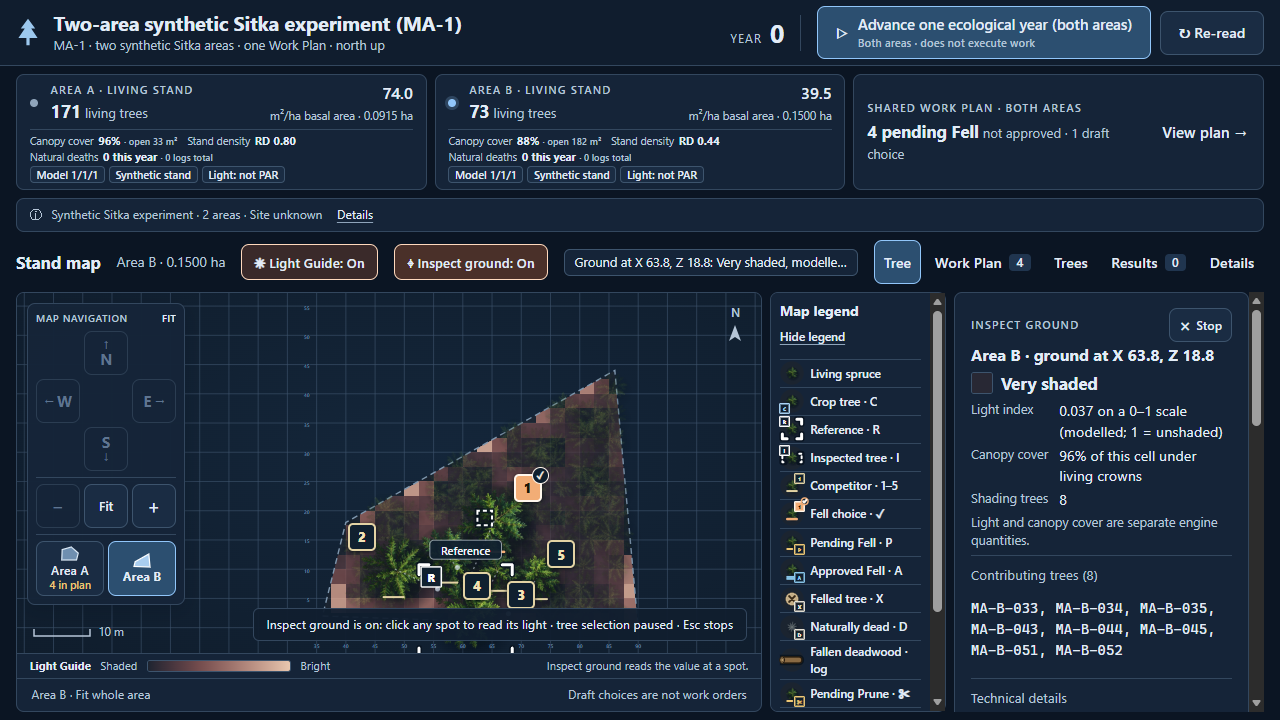
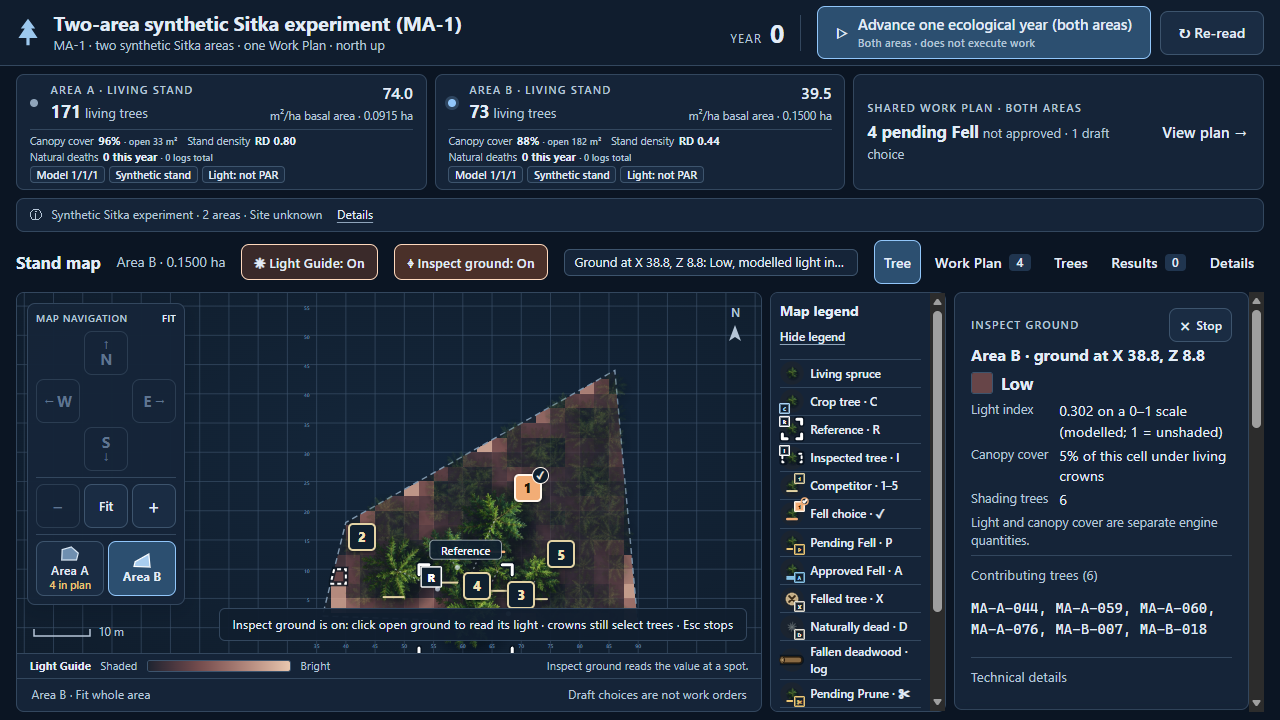
docs(multi-owner-ux): R1 owner decisions, re-run evidence and UX risk
- Phase A implementation result: new "R1" section recording the owner's UX-08
  decision (literal spec order, crowns outrank ground reads) and what the code
  now does, the owner's acceptance of the F-2 Approve lock (no code change),
  the new HEAD, the re-run evidence and the accepted UX RISK that ground
  inspection is limited to open ground (Area A ~4% open by cover; 2 of 144
  cell centres open for the hit-test). UX-08 / F-2 rows, D-1/D-2, the browser
  narrative, screenshots and playtest step no longer describe ground-first.
- scenario-owner-ux.mjs section G rewritten for crown-wins: crown click in
  ground mode selects; open-ground click (hit-test-empty, max clearance) reads
  the cell with no selection/draft/server change; rank toggles only its own
  ID; a modal swallows the click; Escape order. 70 checks per viewport.
- Real headless Edge on fresh servers: 70/70 at 1280x720 and 70/70 at
  1920x1080. Builds 0/0, Core 184/184, smokes 118/6 and 250/4 (same
  pre-existing IDs).
- Screenshots: 07-ground-inspection (both sizes) replaced, 10-ground-mode-
  crown-selects-1280x720 added; set 12 PNGs, 4,827,430 B (AC-9 caps kept).

No capability URL committed.

diff --git a/Docs/Handoffs/MultiRack-Simulation-20261116/900-ui-catchup/MULTI-STAGE4-OWNER-UX-REPAIR-PHASE-A-IMPLEMENTATION-RESULT-20261123.md b/Docs/Handoffs/MultiRack-Simulation-20261116/900-ui-catchup/MULTI-STAGE4-OWNER-UX-REPAIR-PHASE-A-IMPLEMENTATION-RESULT-20261123.md
@@ -7,13 +7,97 @@
 | Role | Sole implementer (Claude Opus 5.5). **No self-review**: the independent reviewer is a different agent and thread |
 | Branch | `feat/multi-stage4-owner-ux-20261123-v1` |
 | Base | `e7c1a57da519ed1ee03ccfbad240196a66df0905` (reviewed Stage 4 UI catch-up candidate; not moved) |
-| Source/test HEAD | `9fed4eb91ed51522e3be2188c9f1539d06106d4d` |
-| Final HEAD | the commit that adds this file, directly on top of `9fed4eb9` (evidence + driver + this handoff; no source change) |
+| Source/test HEAD (Phase A) | `9fed4eb91ed51522e3be2188c9f1539d06106d4d` |
+| Phase A handoff HEAD | `9dd6f601100d55bfca12c1584afb6fc081ba5b7e` (kept in history; not amended) |
+| **Repair R1 source HEAD** | **`1a22d01c`** (`fix(multi-owner-ux): UX-08 crown selection outranks ground inspection`), on top of `9dd6f601` |
+| **Final HEAD** | the commit that adds this R1 update (driver, results, screenshots, handoff), directly on top of `1a22d01c` |
 | Worktree | `C:\Users\hp\.t3\worktrees\CCF-HP\t3-8fc40b07-b22b8bb5869955c0` (Windows checkout of a worktree whose git dir is `/home/jer/Development/CCF-HP/.git/worktrees/t3-8fc40b07-b22b8bb5869955c0`; WSL path `/mnt/c/Users/hp/.t3/worktrees/CCF-HP/t3-8fc40b07-b22b8bb5869955c0`) |
 | Phase B (UX-10) | **Not started.** It was not needed to satisfy Phase A |
 | Integration | None. No merge, no rebase, no force push, `main` untouched |
 
 Unity, Windows builds, save/load and `main` integration were **not** run and are **not** claimed. Everything here is about the standalone browser `/multi` page in `Tools/MultiRackSitkaP1Lab`.
+
+## R1. Bounded repair after the owner's decisions (2026-11-23)
+
+Same writer (Claude Opus 5.5), same branch, new commits only on top of `9dd6f601`; no amend, rebase or force push; the reviewed base `e7c1a57d` did not move. Worktree for R1: `C:\Users\hp\.t3\worktrees\CCF-HP\t3-51cf0f49-fc6c0cea68fda749` (git dir `/home/jer/Development/CCF-HP/.git/worktrees/t3-51cf0f49-fc6c0cea68fda749`).
+
+### R1.1 Owner decision on UX-08 (precedence): the literal spec order, code changed
+
+> modal dialog **>** rank toggle button **>** tree crown selection **>** ground inspection (only when ground mode is active)
+
+The Phase A interpretation D-1 (ground first while Inspect ground is on) was **rejected by the owner** and is removed. What `onMapClick` in `src/Ui/PlayerMultiApi.cs` now does (commit `1a22d01c`):
+
+```js
+async function onMapClick(event) {
+  if (state.batch) { waitForBatch(); return; }
+  if (!state.view || refusedByLock('Map selection') || state.busy) return;
+  ...
+  const outcome = await call('api/multi/hit', { fence: currentFence(), areaId: area.areaId, u: point.x, v: point.y });
+  ...
+  if (candidates.length === 0) {
+    state.overlap = null;
+    applyPayload(outcome.payload, false);
+    // Re-checked after the await: Escape or Stop may have ended Inspect ground while the hit-test was in flight.
+    if (state.lightOn && state.groundMode) { inspectPoint(area.areaId, point.x, point.y); return; }
+    announce('No crown at this point — the selection is unchanged.');
+    return;
+  }
+  if (state.lightOn && state.groundMode) state.ground = null; // a crown hit is a selection, not a ground read
+  ... chooseTree(area.areaId, candidates[0].treeId, false);   // unchanged normal selection
+```
+
+- An open `<dialog>` is modal, so it takes every click; rank buttons are on a sibling HTML layer and never reach the map handler (unchanged).
+- Every other map click, with Inspect ground on or off, goes to the **existing** read-only `api/multi/hit` path behind the existing `state.batch` / `refusedByLock` / `state.busy` guards (no new endpoint, no new hit-test, no double send). A crown there is selected exactly as a normal selection.
+- Only when Inspect ground is on **and** the hit-test reports no crown is the local ground cell read: no further request, no selection change, no draft change (Phase A's ground-read semantics are unchanged).
+- A refused, guarded, locked or failed hit-test shows its usual message and **never** falls through to a ground read.
+- Truthful affordance: the status line reads "Inspect ground is on: click open ground to read its light · crowns still select trees · Esc stops"; the panel hint reads "Click open ground (a spot with no crown over it) inside the area to read its modelled ground light. Clicking a crown still selects that tree."; the announcements say the same; the crosshair cursor is shown only over open ground and crowns keep the pointer. The button keeps its `aria-pressed` and "Inspect ground: On/Off" text and stays keyboard reachable.
+- Not changed: crown geometry, cell values, ranking, the Light Guide mapping, the hit-test tolerance, routes, payloads, any C#.
+
+### R1.2 Owner decision on F-2: Approve lock accepted, no code change
+
+The owner **accepted** that Approve, Execute and the Execute confirmation are all disabled/withdrawn while the read-out is unavailable (Phase A D-2). Behaviour is unchanged and re-verified (smoke F2a–F2h and the browser F-2 checks below).
+
+### R1.3 UX RISK (accepted by the owner)
+
+**Crown-wins precedence leaves ground inspection limited to open ground.** Area A is ~96% canopy cover (the area card: 96%, open 33 m² of 900 m², ≈ 3.7% open area; the owner's figure ~4%). Measured in this run with the server's own hit-test at every light-cell centre (read-only): **Area A 2 of 144 cell centres (1.4%)** have no crown; Area B 22 of 239 (9.2%). In practice, in Area A almost every ground click selects a tree instead, and a ground value under a crown cannot be read by clicking. Two further consequences a reviewer should know: (a) a click a pixel inside a crown edge selects that tree (observed: a point 0.02 m outside MA-B-006's crown radius rounded onto it and selected MA-B-006); (b) because a crown click in ground mode is a normal selection, choosing a different tree clears the previous reference's unsent draft, as it always does outside ground mode (observed and announced: "Cleared 2 unsent draft choices…"). The rule was implemented as directed; I did not substitute another rule. If the owner later wants ground values under crowns, that needs a separate decision (not proposed here).
+
+### R1.4 Re-run evidence (observed by me in the R1 worktree; nothing reused from the Phase A browser run)
+
+| Check | Result |
+|---|---|
+| `dotnet build MultiRackSitkaP1Lab.sln` (8.0.134, `/home/jer/.dotnet/dotnet`) | **0 warnings, 0 errors** |
+| `dotnet build src/Ui/SitkaP1.Ui.csproj` | **0 warnings, 0 errors** |
+| Core suite | **184/184**, 0 failed (anchor / P0 trust / source-identity checks all PASS) |
[1 lines of base64/hex data omitted]
+| `ui-smoke-multiarea.sh` | **118 pass / 6 fail**: J04, J05, J09, J10, J11, J99, identical to the baseline; F2a–F2h all PASS. **All 6 pre-existing**: J99 is the same witness crash `byId('reason-choice').value = 'other'` (TypeError on null), the others the same #885-era selectors |
+| `ui-smoke.sh` | **250 pass / 4 fail**: L01, L02, L06, J31, identical to the baseline. **All 4 pre-existing** (J31 = the same `getBoundingClientRect is not a function` witness crash) |
+| Real headless Edge, 1280×720, fresh server | **70/70 PASS** (+ 2 INFO lines) |
+| Real headless Edge, 1920×1080, fresh server | **70/70 PASS** (+ 2 INFO lines) |
+| CSP violations / exceptions / console errors / HTTP 5xx | 0 / 0 / 0 / 0 at both viewports |
+| No sideways scroll | 1280 = 1280, 1920 = 1920 (start and end) |
+| Protected listeners 127.0.0.1:33767, :43649, :46593 | alive before, during and after; never bound (each lane server took an OS-assigned port) |
+
+Ground-mode precedence checks, both viewports (same numbers at both):
+
+| Check | Observed |
+|---|---|
+| Inspect ground ON, click a crown | MA-B-044 (the hit-test's topmost there) **selected**; ground panel "Area B · choose a spot", no ground mark, Technical details hidden, mode still On; server view unchanged |
+| Inspect ground ON, click open ground (hit-test: no crown; u 3.6, v 46.4, 1.84 m from the nearest crown edge) | ground inspector "Area B · ground at X 38.8, Z 8.8", mark drawn; reference stays MA-B-001, Add label stays "Add selected 1 to Fell plan", rows and rank states identical, server view identical |
+| Inspect ground ON, rank button | only MA-B-010 changed (`changed: ["MA-B-010"]`); reference and ground reading unchanged |
+| Inspect ground ON, modal open (Year+1 consent), click the map | dialog stays open, no request sent (`posts: []`), ground reading and selection unchanged; Escape then closes only the dialog and Inspect ground stays On |
+| Escape order | first Escape stops Inspect ground (Light Guide stays On, 239 cells, inspection of MA-B-044 stays open); after leaving, a crown click selects MA-B-002; the next Escape closes the inspection |
+| Hint / cursor | status and panel text as in R1.1; `#map` cursor `crosshair`, crown cursor `pointer`; no "paused" wording |
+| Outside the area | "no sample", nothing estimated (unchanged) |
+
+UX-06 light ramp spot checks, both viewports, unchanged from Phase A: L = 0 / 0.01 / 0.05 / 0.5 / 1 → opacity **0 / 0.0451 / 0.1284 / 0.5736 / 0.9**, colours `#7f3b4a` / `#88414e` / `#994d54` / `#e49383` / `#ffd9bd`; pixels over the floor colour: summed RGB change **0 / 8 / 26 / 227 / 496**. Every cell with L > 0 is drawn with opacity > 0; monotonic over the real cells.
+
+**Driver changes** (`browser-driver-owner-ux/scenario-owner-ux.mjs`, section G rewritten for crown-wins; 70 checks per viewport, was 63; INFO lines are not counted). Honest run history: the first 1280×720 attempt had 4 FAIL + abort because the driver picked an "open" cell centre 0.02 m outside a crown edge and the integer-pixel click landed on the crown (the page correctly selected it); the driver now picks the hit-test-empty cell centre with the most clearance. A 1920×1080 attempt then had 1 FAIL because the "click a crown after leaving ground mode" step clicked a crown centre covered by something other than that crown; the step now picks a crown point that is on `#crowns`, not under a rank button, with a known hit-test topmost. Both viewports were then re-run on fresh servers: 70/70 each. Those are the committed results.
+
+**Screenshots changed by R1:** `07-ground-inspection-1280x720.png` and `07-ground-inspection-1920x1080.png` (new hint text; the read is now of open ground) replaced; `10-ground-mode-crown-selects-1280x720.png` added. Set: 12 PNGs, **4,827,430 B**, largest 762,902 B (AC-9: ≤ 0.9 MB each, ≤ 5 MB set). The other 1280×720 shots were retaken and are unchanged in visible behaviour, so the Phase A files stay (02 differs by 90 bytes, same state). All 20 R1 PNGs, both raw run logs, the Core and smoke logs are off-repo at `/home/jer/.local/share/ccf-evidence/multi-stage4-owner-ux-repair-20261123/` (`SHA256SUMS`, capability-redacted). No capability URL in any committed file (checked: zero `/s/<64 hex>/` matches).
+
+**R1 environment notes.** Fresh T3 worktree; `git checkout --ignore-other-worktrees -B feat/multi-stage4-owner-ux-20261123-v1 9dd6f601` because the branch was still checked out (clean, idle) in the Phase A worktree `t3-8fc40b07`, which I did not touch; that worktree's checkout is now behind its branch ref and will show R1 as reverse changes if used. As in Phase A (L-4), Windows Git has `core.autocrlf=true`; I re-materialised `Tools/MultiRackSitkaP1Lab`, `900-ui-catchup` and the 3,350 CRLF text files under `Assets/ForestPrototype` with `core.autocrlf=false` (byte-identical to the commit; `git status` clean before editing). The Core tests' own `git` calls need `GIT_DIR`/`GIT_WORK_TREE` set in WSL. `TMPDIR` was `/tmp/opus-ownerux-repair/tmp`.
+
+**Not verified in R1:** owner playtest; independent review; Unity, Windows builds, save/load; `p0-isolation.sh`, `build-output-safety.sh`, `cli-safety.sh`; screen-reader output (announcement text was read from the DOM, not heard); any `main` integration.
 
 ## 1. Commits
 
@@ -22,7 +106,9 @@ Unity, Windows builds, save/load and `main` integration were **not** run and are
 | `267be9ff` | `feat(multi-owner-ux)`: UX-01..UX-09 and F-2 in `MultiAreaPage` (`PlayerMultiApi.cs`) |
 | `0e17f641` | `test(ui-smoke-multiarea)`: F-2 unpaired read-out checks F2a..F2h in the existing page witness |
 | `9fed4eb9` | `fix(multi-owner-ux)`: keep "Add selected N to Fell plan" on one line (found by the browser fold re-check) |
-| *(this commit)* | Browser driver for this task, results, screenshots, this handoff |
+| `9dd6f601` | Browser driver for this task, results, screenshots, this handoff |
+| `1a22d01c` | R1 `fix(multi-owner-ux)`: UX-08 crown selection outranks ground inspection (owner decision) |
+| *(R1 docs commit)* | R1 driver section G, re-run results, changed screenshots, this update |
 
 ## 2. Changed files and why
 
@@ -31,9 +117,9 @@ Unity, Windows builds, save/load and `main` integration were **not** run and are
 | `Tools/MultiRackSitkaP1Lab/src/Ui/PlayerMultiApi.cs` | The whole change, inside the `MultiAreaPage` raw strings (HTML, CSS, JS). No route, payload, fence or C# logic changed (the C# above `MultiAreaPage` is byte-identical) |
 | `Tools/MultiRackSitkaP1Lab/tests/ui-smoke-multiarea.sh` | Adds an `unpaired` fault mode (the server's real answer with `stage4` set to null) and eight F-2 checks. Existing checks untouched |
 | `Docs/Handoffs/.../900-ui-catchup/browser-driver-owner-ux/cdp-ux.mjs` | New. The committed `../browser-driver/cdp.mjs` pattern plus real key events, clipped screenshots and a tiny PNG decoder for pixel checks. The old driver is not modified |
-| `Docs/Handoffs/.../900-ui-catchup/browser-driver-owner-ux/scenario-owner-ux.mjs` | New. 63 real-browser checks per viewport |
+| `Docs/Handoffs/.../900-ui-catchup/browser-driver-owner-ux/scenario-owner-ux.mjs` | New. 63 real-browser checks per viewport at Phase A; 70 after the R1 section G rewrite |
 | `Docs/Handoffs/.../900-ui-catchup/browser-driver-owner-ux/browser-results-{1280x720,1920x1080}.json`, `browser-run-*.txt` | Raw results of the final runs (capability redacted, checked: zero 64-hex tokens) |
-| `Docs/Handoffs/.../900-ui-catchup/evidence-owner-ux/*.png` | 11 screenshots (§7) |
+| `Docs/Handoffs/.../900-ui-catchup/evidence-owner-ux/*.png` | 12 screenshots after R1 (§7; 11 at Phase A) |
 | this file | Handoff |
 
 Not touched (verified with `git diff e7c1a57d HEAD`, empty): `src/Ui/PlayerApi.cs`, `src/Ui/Program.cs`, `src/Core/**`, `fixtures/**`, the `.sln`, `.p0ref`, Unity `Assets/**`, packages, saves, the approved quartet, every historical handoff and the previous `browser-driver/`.
@@ -49,9 +135,9 @@ Not touched (verified with `git diff e7c1a57d HEAD`, empty): `src/Ui/PlayerApi.c
 | **UX-05** | DONE | Dock 158 px wide (was 212). Compass 3×3 (N top-centre, W/E middle, S bottom-centre, empty centre), then one `− · Fit · +` row, then `Area A · Area B` on one row. 44 px targets kept; north-up, pan/zoom limits, Fit and area-switch handlers unchanged |
 | **UX-06** | DONE | Light cells moved **under the crowns** (`#light-cells` now precedes `#crowns`, clipped to the area, no pointer events, no text). Per cell: `t = L^0.65`, opacity `= 0.9·t` (floor `0.0001` for any `L > 0`, written with 4 decimals, so it can never print as 0), colour linear through `#7F3B4A → #DA796D → #FFD9BD` by `t`. `L = 0`: no element. Old numbered band markers, `lc-1..5` fills and their halos (F-3) are gone. OFF by default |
 | **UX-07** | DONE | Ground panel: level word (Very shaded / Low / Moderate / Bright; `L = 0` adds "no modelled light"), "Light index 0.037 on a 0–1 scale (modelled; 1 = unshaded)", "Canopy cover 96% of this cell under living crowns" (the engine's separate `geometricCoveredFraction`), "Shading trees 8". Closed disclosures: **Contributing trees (n)** with the IDs; **Technical details** with the index (4 dp), the cover fraction, column/row, grid size and clipped m², centre X/Z, cross-border trees, light model label + version, "Calibrated PAR no", the guide label and the not-calibrated caveat |
-| **UX-08** | DONE, *with an interpretation to review* (§6 D-1) | With the Light Guide on and Inspect ground off, a crown click selects the tree exactly as before (server hit-test). **Inspect ground** is an explicit `aria-pressed` toggle shown only with the Light Guide on; while on, a map click finds the engine cell containing the point and shows it (crosshair cursor, status line, outline on the chosen cell). Rank buttons and dialogs still take precedence. A point with no cell says "No modelled ground sample… No value is shown or estimated". Leaving (button, **× Stop**, Escape) restores tree selection and leaves the Light Guide as it was |
+| **UX-08** | DONE, **owner-decided precedence (R1, `1a22d01c`)** | Precedence is the literal spec order: modal dialog > rank toggle button > tree crown selection > ground inspection (only while Inspect ground is on). With the Light Guide on or off and Inspect ground on or off, a map click goes to the server hit-test and a crown there is selected exactly as before. **Inspect ground** is an explicit `aria-pressed` toggle shown only with the Light Guide on; while on, a click where the hit-test reports **no crown** finds the engine cell containing the point and shows it (status line, outline on the chosen cell; crosshair over open ground, pointer over crowns). A refused/locked/failed hit-test never falls through to a ground read. A point with no cell says "No modelled ground sample… No value is shown or estimated". Leaving (button, **× Stop**, Escape) stops ground reads and leaves the Light Guide as it was. UX risk accepted by the owner: ground reads are limited to open ground (R1.3) |
 | **UX-09** | DONE | The map legend strip says "Light Guide · Shaded [ramp] Bright · Inspect ground reads the value at a spot." The ramp is an SVG gradient sampled from the same mapping. No band labels, no "modelled light – not measured sunlight", no calibration text on the map. Source/version/uncertainty remain in the ground panel's Technical details and the Details pane (unchanged). The level is always given as text + number in the inspector |
-| **F-2** | DONE | `readoutState()` = `stage4` / `legacy` / `unavailable` (`stage4: null`). Unavailable shows neither the model 0 statements (edge exclusion, "Light … NOT MODELLED") nor the Stage 4 ones; notice, Details pane, history line and rack cards say the read-out is unavailable. **Approve and Execute are disabled** (Execute label "… · re-read needed"), the Work Plan pane shows a notice with a Re-read button, `openExecuteDialog` refuses with a Re-read alert, and an Execute confirmation open when an unpaired view arrives is withdrawn unsent (`samePrunes` now returns false without a read-out). Server-side stale-fence 409 untouched and re-verified |
+| **F-2** | DONE; **Approve lock accepted by the owner (R1.2, no code change)** | `readoutState()` = `stage4` / `legacy` / `unavailable` (`stage4: null`). Unavailable shows neither the model 0 statements (edge exclusion, "Light … NOT MODELLED") nor the Stage 4 ones; notice, Details pane, history line and rack cards say the read-out is unavailable. **Approve and Execute are disabled** (Execute label "… · re-read needed"), the Work Plan pane shows a notice with a Re-read button, `openExecuteDialog` refuses with a Re-read alert, and an Execute confirmation open when an unpaired view arrives is withdrawn unsent (`samePrunes` now returns false without a read-out). Server-side stale-fence 409 untouched and re-verified |
 
 ## 4. Verification commands (run by me in this lane)
 
@@ -93,15 +179,15 @@ node .../scenario-owner-ux.mjs <outDir> //wsl.localhost/Ubuntu/<file holding the
[1 lines of base64/hex data omitted]
 | `ui-smoke-multiarea.sh` | 110 pass / 6 fail: J04, J05, J09, J10, J11, J99 | **118 pass / 6 fail**: the same J04, J05, J09, J10, J11, J99, plus **8 new F2a–F2h, all PASS** |
 | `ui-smoke.sh` (single area) | 250 pass / 4 fail: L01, L02, L06, J31 | **250 pass / 4 fail**: the same L01, L02, L06, J31 |
-| Real Edge, 1280×720 | n/a | **63/63 PASS** |
-| Real Edge, 1920×1080 | n/a | **63/63 PASS** |
+| Real Edge, 1280×720 | n/a | 63/63 PASS at `9fed4eb9` (superseded: **70/70** at R1 `1a22d01c`, R1.4) |
+| Real Edge, 1920×1080 | n/a | 63/63 PASS at `9fed4eb9` (superseded: **70/70** at R1 `1a22d01c`, R1.4) |
 | Horizontal overflow (extra probe) | n/a | none at 1280×720, 1920×1080, 1024×768, 390×844 |
 | CSP violations / console errors / exceptions / HTTP 5xx | n/a | 0 / 0 / 0 / 0 (both viewports) |
 | Protected listeners 127.0.0.1:33767, :43649, :46593 | alive | alive, never bound |
 
 **Smoke failure classification: all pre-existing, none caused by this change.** Multi-area: the page witness still reads #885-era elements that the page no longer has (`[data-competitor]`, `.competitor-rank`, `#reason-choice`); J04/J05/J09/J10/J11 fail on those selectors and J99 records the same crash, `byId('reason-choice').value = 'other'` (base: witness line 357; final: line 416, shifted only by the inserted F-2 block). Single area: files read by `ui-smoke.sh` are unchanged by this branch. The pass count rose 110 → 118 only because of the eight added F-2 checks; I numbered them F2a..F2h so the J numbering (and so the baseline failure IDs) did not move.
 
-**Real-browser checks (each viewport, fresh session).** Light Guide OFF by default; one-line notice ≤ 40 px and Details with every caveat verbatim; compass 3×3, `− Fit +` row, `Area A | B` row, dock ≤ 170 px with 44 px targets; zoom/pan N/W/E/S/Fit/area switch; UX-01 fold with 0 and with 5 chosen; five rank buttons carrying the engine's top-five IDs in order; ranks 1→5 each toggling exactly its ID and the matching checkbox, re-click clears, inspector→map sync, Tab focus with a visible 3 px outline, Space toggles with focus kept, announced count, **server view unchanged by toggles** (only `hit`/`competition` reads sent); Add queued exactly the chosen IDs; Escape closes the Year+1 dialog only, the next Escape closes inspection and restores normal rendering with zoom/pan/area/Crop/orders/year kept; × Close does the same and the cleared draft does not return; light cells = exactly the cells with `L > 0`, all with opacity > 0, under the crowns, no text, monotonic over real cells; ramp values at L = 0 / 0.01 / 0.05 / 0.5 / 1 = opacity 0 / 0.0451 / 0.1284 / 0.5736 / 0.9 with `#ffd9bd` at 1; **pixels** over the floor colour: summed RGB change 0 / 8 / 26 / 227 / 496; crown click selects with the Light Guide on; rank toggles with it on; Inspect ground On state; a ground click on a crown reads that cell and does **not** select the tree; summary values equal the engine cell (index 3 dp, cover %, count); IDs and provenance behind closed disclosures; rank click in ground mode toggles and does not read ground; outside point says "no sample"; Escape stops ground mode first with the Light Guide still on; tree selection returns; no server side effect from Light/ground/inspection; Approve fells nothing; F-2 unavailable state (no legacy claims, Approve/Execute withdrawn), paired re-read restores Execute, an open confirmation is withdrawn unsent; real Execute fells exactly the confirmed trees; Year+1 advances. Full lines in `browser-driver-owner-ux/browser-run-*.txt`.
+**Real-browser checks (each viewport, fresh session; Phase A run at `9fed4eb9`; the ground-mode part is superseded by R1.4).** Light Guide OFF by default; one-line notice ≤ 40 px and Details with every caveat verbatim; compass 3×3, `− Fit +` row, `Area A | B` row, dock ≤ 170 px with 44 px targets; zoom/pan N/W/E/S/Fit/area switch; UX-01 fold with 0 and with 5 chosen; five rank buttons carrying the engine's top-five IDs in order; ranks 1→5 each toggling exactly its ID and the matching checkbox, re-click clears, inspector→map sync, Tab focus with a visible 3 px outline, Space toggles with focus kept, announced count, **server view unchanged by toggles** (only `hit`/`competition` reads sent); Add queued exactly the chosen IDs; Escape closes the Year+1 dialog only, the next Escape closes inspection and restores normal rendering with zoom/pan/area/Crop/orders/year kept; × Close does the same and the cleared draft does not return; light cells = exactly the cells with `L > 0`, all with opacity > 0, under the crowns, no text, monotonic over real cells; ramp values at L = 0 / 0.01 / 0.05 / 0.5 / 1 = opacity 0 / 0.0451 / 0.1284 / 0.5736 / 0.9 with `#ffd9bd` at 1; **pixels** over the floor colour: summed RGB change 0 / 8 / 26 / 227 / 496; crown click selects with the Light Guide on; rank toggles with it on; Inspect ground On state; (R1: a click on a crown in ground mode now **selects** the tree and a click on open ground reads the cell, see R1.4); summary values equal the engine cell (index 3 dp, cover %, count); IDs and provenance behind closed disclosures; rank click in ground mode toggles and does not read ground; outside point says "no sample"; Escape stops ground mode first with the Light Guide still on; tree selection returns; no server side effect from Light/ground/inspection; Approve fells nothing; F-2 unavailable state (no legacy claims, Approve/Execute withdrawn), paired re-read restores Execute, an open confirmation is withdrawn unsent; real Execute fells exactly the confirmed trees; Year+1 advances. Full lines in `browser-driver-owner-ux/browser-run-*.txt`.
 
 How the F-2 state was produced: the real server only sends `stage4: null` when another request moves the session between a command and its read-out (a race). Both tests therefore inject it: the smoke witness nulls `stage4` in the real server answer; the browser scenario wraps `window.fetch` to do the same for one `api/multi/view` answer. The 409 check uses a real stale fence against the real server.
 
@@ -109,15 +195,15 @@ How the F-2 state was produced: the real server only sends `stage4: null` when a
 
 ## 6. Deviations, interpretations and limitations a reviewer should attack
 
-- **D-1, UX-08 click precedence (interpretation).** The spec lists "modal > rank toggle > tree crown selection > ground inspection (only if ground mode is active)" and also "returning from ground inspection restores normal tree interaction". Area A is ~96% crown cover, so if crowns always won, ground mode would almost never reach the ground. I implemented: modal > rank button > (Inspect ground **on**: ground) / (Inspect ground **off**, Light Guide on or off: crown selection; ground is never inspected). Crown selection is therefore paused only while the user has explicitly switched Inspect ground on, and this is stated on screen. If the owner wants crowns to win even inside ground mode, it is a one-line change in `onMapClick`.
-- **D-2, F-2 also withdraws Approve.** The spec names Execute. Without a read-out the pending Prune orders are unknown, so approving would approve orders the user cannot see; I disabled Approve too. An Execute confirmation open when an unpaired view arrives triggers the existing withdraw-and-lock path, so the whole page waits for a re-read.
+- **D-1, UX-08 click precedence. SUPERSEDED by the owner's decision (R1.1).** Phase A read the ground first while Inspect ground was on; the owner rejected that and confirmed the literal spec order (crowns win; ground only where the hit-test finds no crown). Implemented in `1a22d01c`; the accepted UX risk is R1.3.
+- **D-2, F-2 also withdraws Approve. ACCEPTED by the owner (R1.2).** The spec names Execute. Without a read-out the pending Prune orders are unknown, so approving would approve orders the user cannot see; I disabled Approve too. An Execute confirmation open when an unpaired view arrives triggers the existing withdraw-and-lock path, so the whole page waits for a re-read.
 - **D-3, inspector wording/layout.** Heading "Choose competitors for Fell" became "Competitors for Fell · N within 8 m"; the strength word moved under the Hegyi CI value (column header "Hegyi CI"); "Clear selection" became "Clear" with `aria-label` "Clear the Fell draft selection"; on short desktops (≤ 820 px high) the visible "n selected · draft only" line and the area tag next to "Reference tree" are hidden (the map subtitle and the pressed Area button name the area; the count is in the Add button and announced); a long status chip shortens with an ellipsis (full text in its tooltip and the Tree record); Age is in the Tree record only. All other information is still present below the fold.
 - **D-4, map foot.** The foot no longer repeats "site UNKNOWN · growth and crowns use both areas; Work Plans and summaries per area" or the model 0 edge sentence; the full statements stay in the notice Details and the Details pane (AC07). The rack cards' "Model 1/1/1 · Synthetic stand · Light: not PAR" badges are **unchanged** (not in the UX list); the owner may consider them repeated warnings, which would be a follow-up.
 - **D-5, Escape and search boxes.** A search box with text keeps the browser's own Escape (clear the field) and the inspection stays open in that key press. Not stated in the spec; chosen to avoid destroying typed text.
 - **D-6, light mapping constants** (`LIGHT_EASE 0.65`, `LIGHT_ALPHA_MAX 0.9`, floor `0.0001`, level-word thresholds 0.1 / 0.35 / 0.65) are visual parameters, not ecology. The suggested `min(0.65, 0.65·L^1.2)` would give opacity ≈ 0.0026 at L = 0.01, which rounds to **no pixel change**; the ease 0.65 gives an 8-level summed change at 0.01 (measured). Below about L = 0.0007 the change rounds to zero pixels on an 8-bit screen although the written opacity stays positive ("potentially imperceptibly subtle", per spec §1). Cells are crisp 2.5 m squares (`shape-rendering: crispEdges`, no blur), so the layer looks blocky up close; blurring would spill light into L = 0 cells, which the spec forbids.
 - **D-7, ground lookup.** The page matches a clicked point to the read-out's own clipped cell polygon (point-in-polygon), the same kind of screen→map conversion the page already does for hit-testing. It never interpolates or estimates a value.
 - **D-8, rank buttons are positioned with CSSOM** (`element.style.left/top`), which the page CSP (`style-src 'self'`) allows; zero CSP reports in both runs. Positions are recomputed on every map render (zoom, pan, resize).
-- **L-1, AC-9 screenshots.** All nine 1280×720 states are committed plus two 1920×1080 states (Light Guide Area B, ground inspection): 11 PNGs, 4,517,240 B, largest 762,902 B, within ≤ 0.9 MB/image and ≤ 5 MB/set. The other seven 1920×1080 PNGs (one is 1,184,051 B, over the per-image cap) are kept outside the repo with the raw logs at `/home/jer/.local/share/ccf-evidence/multi-stage4-owner-ux-20261123/` (`SHA256SUMS` there).
+- **L-1, AC-9 screenshots (Phase A; R1 set: 12 PNGs, 4,827,430 B, see R1.4).** All nine 1280×720 states are committed plus two 1920×1080 states (Light Guide Area B, ground inspection): 11 PNGs, 4,517,240 B, largest 762,902 B, within ≤ 0.9 MB/image and ≤ 5 MB/set. The other seven 1920×1080 PNGs (one is 1,184,051 B, over the per-image cap) are kept outside the repo with the raw logs at `/home/jer/.local/share/ccf-evidence/multi-stage4-owner-ux-20261123/` (`SHA256SUMS` there).
 - **L-2, data reality.** At year 0 no cell has L exactly 0 (Area A: 144 cells, L 0.00067–0.22, median 0.0053; Area B: 239 cells, 0.0101–0.819, median 0.109). The L = 0 rule is verified through the ramp/pixel test and the "only L > 0 cells are drawn" check, not on a real zero cell.
 - **L-3, the old witness drift is not fixed** (out of scope; pre-existing #885 selectors).
 - **L-4, environment.** This worktree is a Windows checkout (system Git has `core.autocrlf=true`, no `.gitattributes`). Before any edit I re-materialised the tracked files with `core.autocrlf=false` (LF, byte-identical to the commit; otherwise the Core source-identity test failed on CRLF and the `.sh` smokes could not run), and used `core.filemode=false` per command. `.p0ref` was copied read-only, then made user-writable on `/mnt/c` because the read-only bit blocked MSBuild's copy; content and hash unchanged. Builds ran from WSL on `/mnt/c`.
@@ -135,8 +221,9 @@ How the F-2 state was produced: the real server only sends `stage4: null` when a
 | `05-light-guide-area-a-1280x720.png` | Light Guide on, Area A (almost all very low light) | 328,254 | `8bc04947…` |
 | `06-light-guide-area-b-1280x720.png` | Light Guide on, Area B (brighter real openings) | 313,703 | `87ac7abf…` |
 | `06-light-guide-area-b-1920x1080.png` | Same at 1920×1080 | 762,902 | `75086cd3…` |
-| `07-ground-inspection-1280x720.png` | Inspect ground on: concise summary, contributing trees expanded | 305,578 | `d48071be…` |
-| `07-ground-inspection-1920x1080.png` | Same at 1920×1080 | 748,388 | `c2213e6b…` |
+| `07-ground-inspection-1280x720.png` | **R1:** Inspect ground on, open-ground read: concise summary, contributing trees expanded, truthful hint | 302,657 | `135f6e6e…` |
+| `07-ground-inspection-1920x1080.png` | **R1:** same at 1920×1080 | 746,031 | `686a6ad6…` |
+| `10-ground-mode-crown-selects-1280x720.png` | **R1, new:** Inspect ground on, a crown click selected MA-B-044; panel "choose a spot", no ground read | 315,468 | `2d15032f…` |
 | `08-notice-details-1280x720.png` | Notice Details open with every caveat | 219,667 | `2696243c…` |
 | `09-f2-readout-unavailable-1280x720.png` | F-2: unavailable read-out, Approve/Execute withdrawn | 370,664 | `cde1086f…` |
 
@@ -149,5 +236,5 @@ No capability URL is in any committed file. A fresh capability URL for the owner
 3. Click map numbers 1, 3, 5: each turns orange with a tick, the matching rows tick, the button says "Add selected 3 to Fell plan". Click 3 again: it clears. Untick row 1: map 1 clears.
 4. Press Escape (or **× Close inspection**): the map returns to normal; zoom and area stay.
 5. **Light Guide: On**: soft rose-to-peach light appears on the floor under the crowns (Area A is almost all dark; Area B's open edges are pale peach). Clicking a crown still selects it.
-6. **Inspect ground: On**, click a spot: a short summary (level, light index, canopy cover, shading trees). Escape stops ground mode; the Light Guide stays on.
+6. **Inspect ground: On**. Click a crown: it is selected as usual (no ground read). Click open ground with no crown over it (easiest in Area B; Area A is almost all crown): a short summary (level, light index, canopy cover, shading trees); the selection and draft are unchanged. Escape stops ground mode; the Light Guide stays on.
 7. Queue → Approve → Execute work as before.
